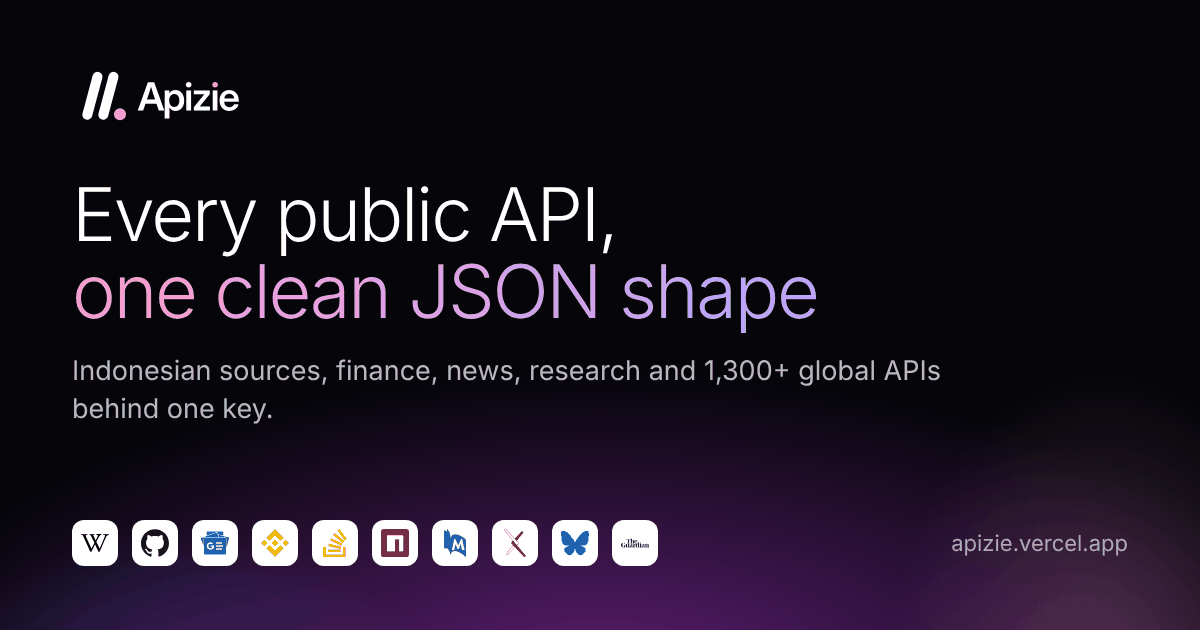
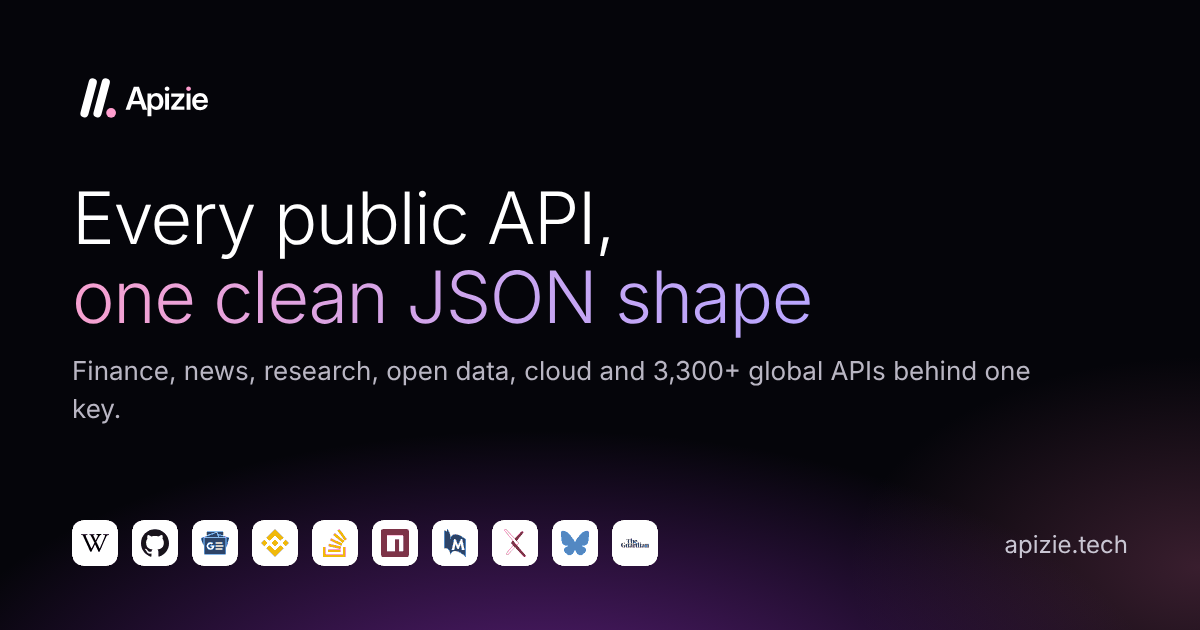
apizie.tech as the only public domain: canonical URLs, vercel.app redirects, new share images, SEO and GEO

diff --git a/src/web/pages/home.js b/src/web/pages/home.js
@@ -15,10 +15,10 @@ const WHY = [
 ];
 
 export const HOME_FAQ = [
-  ["What is Apizie?", "Apizie is an API gateway that puts 1,600+ public APIs and data sources (Wikipedia, GitHub, Binance, news, research databases and 1,300+ global APIs) behind one API key. Every source answers in the same JSON shape: { project, data, timestamp }."],
+  ["What is Apizie?", "Apizie is an API gateway that puts 3,700+ public APIs and data sources (Wikipedia, GitHub, Binance, news, research databases and 3,300+ global APIs) behind one API key. Every source answers in the same JSON shape: { project, data, timestamp }."],
   ["How do I use Apizie with Claude, ChatGPT or Cursor?", "Add the Apizie MCP server URL (/mcp) to your app. Claude.ai, Claude Desktop and ChatGPT connect with one click through OAuth; Cursor, VS Code and Gemini CLI use an API key header. The agent can then search the catalog and call any API as a tool."],
   ["Is Apizie free?", "Yes. The Free plan includes 1,000 requests a month at 100 requests a minute on every live endpoint, with no credit card. Paid plans (Pro, Ultra, Max) raise the limits and add bulk jobs and webhooks."],
-  ["Which data sources does Apizie cover?", "Finance and crypto (Binance, OKX, CoinGecko, SEC EDGAR, ECB rates), news (The Guardian, BBC, Google News, Hacker News), research (PubMed, arXiv), developer tools (GitHub, npm, DNS, WHOIS), media (Apple Music, Deezer) and 1,300+ global APIs imported from public OpenAPI specifications."],
+  ["Which data sources does Apizie cover?", "Finance and crypto (Binance, OKX, CoinGecko, SEC EDGAR, ECB rates), news (The Guardian, BBC, Google News, Hacker News), research (PubMed, arXiv), developer tools (GitHub, npm, DNS, WHOIS), media (Apple Music, Deezer), cloud platforms and 3,300+ global APIs imported from official OpenAPI specifications."],
   ["What does a request look like?", "GET /v1/{category}:{api}/{endpoint}?param=value with the header x-api-key. For example /v1/search-tools:wikipedia/search?query=Eiffel%20Tower returns Wikipedia search results as JSON."],
 ];
 
@@ -119,7 +119,7 @@ export function homePage({ user, totals, categories, top, global = [], liveKeys 
     <article class="card feat f-wide"><h3>We keep every scraper working</h3><p>Sources change their markup and APIs constantly. Health checks run around the clock and every endpoint reports its live status in the catalog, so you never guess.</p><div class="mini-status">${["live", "live", "live", "upstream", "live", "live", "planned", "live"].map((s) => `<i class="dot-${s}"></i>`).join("")}</div></article>
     <article class="card feat"><h3>One response shape</h3><p><code>project</code>, <code>data</code>, <code>timestamp</code>. Errors use the same codes everywhere.</p></article>
     <article class="card feat"><h3>Built for AI agents</h3><p>A remote MCP server exposes the whole catalog as tools for Claude, Cursor and VS Code.</p></article>
-    <article class="card feat"><h3>Bring your own key</h3><p>Stripe, Twilio, Spotify and 1,300+ more run with your provider key, sent per request and never stored.</p></article>
+    <article class="card feat"><h3>Bring your own key</h3><p>Stripe, Twilio, Spotify and 3,300+ more run with your provider key, sent per request and never stored.</p></article>
     <article class="card feat"><h3>Pay for what you use</h3><p>A 5xx never costs you a request. Quotas reset on the 1st (UTC) and every response tells you what is left.</p></article>
   </div>
 </section>`;
@@ -154,7 +154,7 @@ export function homePage({ user, totals, categories, top, global = [], liveKeys 
   <div class="section-head"><span class="eyebrow">FAQ</span><h2 class="display-2">Questions, answered.</h2></div>
   <div class="faq">${HOME_FAQ.map(([q, a]) => `<details><summary>${esc(q)}</summary><p>${esc(a)}</p></details>`).join("")}</div>
 </section>`;
-  const description = `One API key for ${apiCount} public data APIs: Wikipedia, GitHub, Binance, arXiv, news and 1,300+ global APIs as clean JSON, plus an MCP server for Claude, ChatGPT and Cursor. Free 1,000 requests/month, paid plans from $9.`;
+  const description = `One API key for ${apiCount} public data APIs: Wikipedia, GitHub, Binance, arXiv, news and 3,300+ global APIs as clean JSON, plus an MCP server for Claude, ChatGPT and Cursor. Free 1,000 requests/month, paid plans from $9.`;
   return layout({ active: "home", user, bodyClass: "home", description, markdown: true, canonical: "/", jsonLd: [webPageLd({ name: "Apizie: One API key for every public data source", description }), faqLd(HOME_FAQ)], body: `<main>${hero}${stats}${steps}${find}${globalSec}${code}${features}${pricing}${agent}${faqSec}${cta}</main>`, head: `<link rel="preload" as="image" href="${HERO_BG}" type="image/webp">` });
 }
 
@@ -175,7 +175,7 @@ export const _json = json;
 const HEADLINES = (apiCount) => [
   {
     lines: [[["One API key", "l"], ["for"]], [[apiCount, "r"], ["data sources"]]],
-    sub: "Finance, news, research, developer tools and 1,300+ global APIs as clean JSON. Call them from your code or hand them to your AI agent.",
+    sub: "Finance, news, research, developer tools and 3,300+ global APIs as clean JSON. Call them from your code or hand them to your AI agent.",
   },
   {
     lines: [[["The API key", "l"], ["for"]], [["your AI agent", "r"]]],

diff --git a/src/app.js b/src/app.js
@@ -52,8 +52,13 @@ export function createApp(opts = {}) {
   const vercelHost = env.VERCEL_PROJECT_PRODUCTION_URL ?? env.VERCEL_URL;
   // Only the origin is used: a value like "https://apizie.tech/auth/supabase/callback" would otherwise double every path.
   const originOf = (v) => { try { return new URL(v).origin; } catch { return String(v).replace(/\/+$/, ""); } };
-  const apiUrl = originOf(opts.apiUrl ?? env.ZIE_API_URL ?? env.ZIE_PUBLIC_URL ?? (vercelHost ? `https://${vercelHost}` : `http://localhost:${env.PORT ?? 8787}`));
-  const publicUrl = originOf(opts.publicUrl ?? env.ZIE_PUBLIC_URL ?? apiUrl);
+  // Production always answers as the brand domain: a *.vercel.app value (env var or Vercel's own default) is replaced by
+  // CANONICAL_URL, so links, OAuth callbacks, sitemap, canonical tags and code samples never show the Vercel host.
+  const isVercelProd = env.VERCEL_ENV === "production" || (env.VERCEL === "1" && !env.VERCEL_ENV);
+  const canonicalize = (u) => (isVercelProd && /\.vercel\.app$/i.test(hostOf(u)) ? CANONICAL_URL : u);
+  const apiUrl = canonicalize(originOf(opts.apiUrl ?? env.ZIE_API_URL ?? env.ZIE_PUBLIC_URL ?? (isVercelProd ? CANONICAL_URL : vercelHost ? `https://${vercelHost}` : `http://localhost:${env.PORT ?? 8787}`)));
+  const publicUrl = canonicalize(originOf(opts.publicUrl ?? env.ZIE_PUBLIC_URL ?? apiUrl));
+  const canonicalHost = hostOf(publicUrl);
   const serverless = opts.serverless ?? env.VERCEL === "1";
   const production = env.NODE_ENV === "production" || serverless;
   const logger = opts.logger === undefined ? console : opts.logger;
@@ -714,6 +719,7 @@ export function createApp(opts = {}) {
   }
 
   // ---------- node:http glue ------------------------------------------------------
+  const offCanonicalPage = (req, url) => isOffCanonicalPage(req, url, canonicalHost);
   async function handler(req, res) {
     const t0 = process.hrtime.bigint();
     const requestId = /^[A-Za-z0-9._-]{6,64}$/.test(req.headers["x-request-id"] ?? "") ? req.headers["x-request-id"] : ulid();
@@ -722,6 +728,10 @@ export function createApp(opts = {}) {
     const isApi = /^\/(v1|api\/(me|admin|public|scrapers|info|report|showcase)|mcp|auth\/(login|register|logout)|\.well-known|oauth\/(register|token|revoke))(\/|$)/.test(url.pathname) && !(req.method === "GET" && url.pathname === "/mcp" && !/event-stream/.test(req.headers.accept ?? ""));
     try {
       if (req.method === "OPTIONS") out = { status: 204, body: "", headers: {} };
+      else if (offCanonicalPage(req, url)) {
+        // An old *.vercel.app link: send people (and search engines) to the same page on the brand domain.
+        out = { status: 308, body: "", headers: { Location: publicUrl + url.pathname + url.search, "Cache-Control": "public, max-age=3600" } };
+      }
       else {
         req.zieRequestId = requestId;
         const sessionToken = parseCookies(req.headers.cookie)[SESSION_COOKIE];
@@ -777,6 +787,24 @@ function upstreamAuthFrom(h) {
   return key || authorization ? { ...(key ? { key } : {}), ...(authorization ? { authorization } : {}) } : null;
 }
 const text = (s) => ({ status: 200, body: s, headers: { "content-type": "text/plain; charset=utf-8", "Cache-Control": "public, max-age=600" } });
+export const CANONICAL_URL = "https://apizie.tech";
+function hostOf(u) {
+  try {
+    return new URL(u).hostname.toLowerCase();
+  } catch {
+    return "";
+  }
+}
+/**
+ * GET/HEAD for a web page on a *.vercel.app host while the public URL is another domain. API calls, MCP, OAuth,
+ * webhooks and sign-in callbacks keep working on the old host so existing clients and in-flight logins do not break.
+ */
+function isOffCanonicalPage(req, url, canonicalHost) {
+  if (req.method !== "GET" && req.method !== "HEAD") return false;
+  const host = String(req.headers["x-forwarded-host"] ?? req.headers.host ?? "").split(",")[0].trim().toLowerCase().replace(/:\d+$/, "");
+  if (!host || host === canonicalHost || !/\.vercel\.app$/.test(host) || /\.vercel\.app$/.test(canonicalHost)) return false;
+  return !/^\/(v1|mcp|api|oauth|webhooks|\.well-known|auth\/[a-z]+\/callback)(\/|$)/.test(url.pathname);
+}
 const redirect = (to, headers = {}) => ({ status: 302, body: "", headers: { Location: to, ...headers } });
 const isHttps = (req) => req.headers["x-forwarded-proto"] === "https" || !!req.socket?.encrypted;
 const safeHost = (u) => {

diff --git a/test/domain.test.js b/test/domain.test.js
@@ -1,0 +1,50 @@
+// The brand domain: production never shows *.vercel.app in links, callbacks, SEO files or code samples,
+// and old vercel.app page links move to the same page on apizie.tech.
+import { test, after } from "node:test";
+import assert from "node:assert/strict";
+import { createApp } from "../src/app.js";
+import { MemoryKV } from "../src/db/kv.js";
+
+const apps = [];
+after(() => Promise.all(apps.map((a) => new Promise((r) => a.server.close(r)))));
+async function start(env) {
+  const app = createApp({ quiet: true, logger: null, kv: new MemoryKV(), env, supabaseAuth: null });
+  await new Promise((r) => app.server.listen(0, "127.0.0.1", r));
+  apps.push(app);
+  return `http://127.0.0.1:${app.server.address().port}`;
+}
+const get = (base, path, host, extra = {}) => fetch(base + path, { headers: { "x-forwarded-host": host, ...extra }, redirect: "manual" });
+
+test("production on Vercel answers as apizie.tech even when env vars still name the vercel.app host", async () => {
+  const base = await start({ VERCEL_ENV: "production", VERCEL_PROJECT_PRODUCTION_URL: "zieapi.vercel.app", APIZIE_API_URL: "https://zieapi.vercel.app", APIZIE_PUBLIC_URL: "https://zieapi.vercel.app/" });
+  for (const path of ["/", "/llms.txt", "/llms-full.txt", "/sitemap.xml", "/robots.txt", "/openapi.json", "/pricing", "/mcp", "/docs", "/scrapers"]) {
+    const body = await (await get(base, path, "apizie.tech")).text();
+    assert.ok(!/vercel\.app/.test(body), `${path} mentions vercel.app`);
+  }
+  const home = await (await get(base, "/", "apizie.tech")).text();
+  assert.match(home, /<link rel="canonical" href="https:\/\/apizie\.tech\/"/);
+  assert.match(home, /<meta property="og:image" content="https:\/\/apizie\.tech\/assets\/og\/home\.png\?v=4"/);
+  assert.match(await (await get(base, "/robots.txt", "apizie.tech")).text(), /Sitemap: https:\/\/apizie\.tech\/sitemap\.xml/);
+  const catalogPage = await (await get(base, "/api/finance/indodax", "apizie.tech")).text();
+  assert.ok(catalogPage.includes("https://apizie.tech/v1/finance:indodax/"), "code samples use the brand domain");
+});
+
+test("old vercel.app page links redirect to the same page on apizie.tech; API, MCP and callbacks keep working there", async () => {
+  const base = await start({ VERCEL_ENV: "production", VERCEL_PROJECT_PRODUCTION_URL: "zieapi.vercel.app" });
+  const r = await get(base, "/dashboard?tab=keys", "zieapi.vercel.app");
+  assert.equal(r.status, 308);
+  assert.equal(r.headers.get("location"), "https://apizie.tech/dashboard?tab=keys");
+  assert.equal((await get(base, "/scrapers", "zieapi.vercel.app", { "x-forwarded-host": "zieapi.vercel.app" })).status, 308);
+  for (const path of ["/v1/finance:indodax/ticker", "/api/scrapers/list", "/mcp", "/auth/supabase/callback", "/.well-known/oauth-protected-resource", "/webhooks/dodo"]) {
+    assert.notEqual((await get(base, path, "zieapi.vercel.app")).status, 308, path);
+  }
+  assert.equal((await get(base, "/pricing", "apizie.tech")).status, 200);
+});
+
+test("preview deployments and local runs keep their own host", async () => {
+  const preview = await start({ VERCEL_ENV: "preview", VERCEL_URL: "zieapi-git-dev.vercel.app" });
+  assert.equal((await get(preview, "/pricing", "zieapi-git-dev.vercel.app")).status, 200);
+  assert.match(await (await get(preview, "/robots.txt", "zieapi-git-dev.vercel.app")).text(), /https:\/\/zieapi-git-dev\.vercel\.app\/sitemap\.xml/);
+  const local = await start({});
+  assert.equal((await get(local, "/pricing", "localhost")).status, 200);
+});

diff --git a/src/web/pages/catalog.js b/src/web/pages/catalog.js
@@ -27,7 +27,7 @@ ${pageHead("Catalog", `Browse all ${fmt(totals.scrapers)} APIs`, `${fmt(totals.e
 </div>
 <script type="application/json" id="catalog-data">${json({ items: items.map(({ id, description, sourceUrl, maxCacheTtl, minPlan, hasGatedEndpoint, ...it }) => ({ ...it, description: description ? description.slice(0, 120) : null })), initialCat: cat })}</script>
 </main>`;
-  const description = `Browse ${totals.scrapers.toLocaleString("en-US")} public data APIs and ${totals.endpoints.toLocaleString("en-US")} endpoints: finance, news, Indonesia, social media, research, developer tools and 1,300+ global APIs. One key, clean JSON, MCP-ready.`;
+  const description = `Browse ${totals.scrapers.toLocaleString("en-US")} public data APIs and ${totals.endpoints.toLocaleString("en-US")} endpoints: finance, news, social media, research, developer tools, cloud and 3,300+ global APIs. One key, clean JSON, MCP-ready.`;
   return layout({ fullTitle: `API Catalog: ${Math.floor(totals.scrapers / 100) * 100}+ Public Data APIs as JSON | Apizie`, active: "scrapers", user, body, description, ogImage: "/assets/og/api.png", canonical: "/scrapers", jsonLd: [webPageLd({ name: "Apizie API catalog", description, type: "CollectionPage" }), breadcrumb([["Home", "/"], ["Catalog", "/scrapers"]])] });
 }
 
@@ -89,7 +89,7 @@ export function scraperPage({ user, s, category, apiUrl, epSlug }) {
 <script type="application/json" id="detail-data">${json({ scraper: { key: s.key, displayName: s.displayName, category: s.category, slug: s.slug, auth: s.auth ?? null, provider: s.provider ?? null, origin: s.origin }, endpoints: s.endpoints, current: ep.slug, apiUrl, errors, langs: CODE_LANGS, loggedIn: !!user })}</script>
 </main>`;
   const firstSentence = (s.description ?? "").replace(/\s+/g, " ").split(/(?<=[.!?])\s/)[0].slice(0, 80).replace(/[.\s,;:]*$/, "");
-  const description = `${s.displayName} API: ${s.endpointCount} endpoint${s.endpointCount === 1 ? "" : "s"} as clean JSON with one key${firstSentence ? `. ${firstSentence}` : ""}. MCP-ready, free 600 requests/month.`;
+  const description = `${s.displayName} API: ${s.endpointCount} endpoint${s.endpointCount === 1 ? "" : "s"} as clean JSON with one key${firstSentence ? `. ${firstSentence}` : ""}. MCP-ready, free 1,000 requests/month.`;
   return layout({
     fullTitle: `${s.displayName} API: ${s.endpointCount} Endpoint${s.endpointCount === 1 ? "" : "s"} as JSON | Apizie`,
     active: "scrapers", user, body, description, ogImage: "/assets/og/api.png", markdown: true, canonical: `/api/${s.category}/${s.slug}`,

diff --git a/src/web/seo.js b/src/web/seo.js
@@ -13,7 +13,7 @@ export const BRAND = {
   legalName: "Ziera Technology",
   tagline: "One API key for every public data source",
   description:
-    "Apizie turns 1,600+ public APIs and data sources (Wikipedia, GitHub, Binance, arXiv, news and more) into clean JSON behind one API key, with an MCP server for Claude, ChatGPT and Cursor. Free 1,000 requests a month.",
+    "Apizie turns 3,700+ public APIs and data sources (Wikipedia, GitHub, Binance, arXiv, news and more) into clean JSON behind one API key, with an MCP server for Claude, ChatGPT and Cursor. Free 1,000 requests a month.",
   repo: "https://github.com/nafadza14/zieapi",
   email: "support@zieads.com",
   locale: "en_US",
@@ -45,7 +45,7 @@ export function siteGraph() {
     "@type": "Organization",
     "@id": `${base}#org`,
     name: BRAND.name,
-    alternateName: ["Apizie API", "apizie"],
+    alternateName: ["Apizie API", "apizie", "apizie.tech"],
     url: base,
     logo: { "@type": "ImageObject", url: absUrl("/assets/icon-512.png"), width: 512, height: 512 },
     legalName: BRAND.legalName,
@@ -73,7 +73,7 @@ export function siteGraph() {
     url: base,
     description: BRAND.description,
     publisher: { "@id": `${base}#org` },
-    featureList: ["REST API with one JSON envelope", "MCP server (Streamable HTTP, OAuth 2.1)", "Bulk jobs", "Signed webhooks", "OpenAPI 3.1 and llms.txt", "1,300+ global APIs from public OpenAPI specs"],
+    featureList: ["REST API with one JSON envelope", "MCP server (Streamable HTTP, OAuth 2.1)", "Bulk jobs", "Signed webhooks", "OpenAPI 3.1 and llms.txt", "3,300+ global APIs from official OpenAPI specs"],
     offers: Object.values(PLANS).map((p) => ({
       "@type": "Offer",
       name: `${PLAN_COPY[p.id]?.name ?? p.id} plan`,
@@ -143,7 +143,7 @@ const PRIVATE = ["/dashboard", "/admin", "/api/me", "/api/admin", "/oauth/", "/a
 export function robotsTxt(publicUrl) {
   const block = (ua) => [`User-agent: ${ua}`, "Allow: /", ...PRIVATE.map((p) => `Disallow: ${p}`)].join("\n");
   return [
-    "# Apizie: one API key for 1,600+ public data sources.",
+    "# Apizie: one API key for 3,700+ public data sources.",
     `# AI agents: start at ${publicUrl}/llms.txt (summary) or ${publicUrl}/llms-full.txt (full catalog).`,
     "# Every catalog and docs page also has a Markdown twin: append .md or send Accept: text/markdown.",
     "",

diff --git a/src/web/pages/misc.js b/src/web/pages/misc.js
@@ -52,8 +52,8 @@ ${pageHead("MCP server", `Give your AI agent ${fmt(totals?.scrapers ?? 0)} APIs.
   <div class="table-wrap"><table class="doc-table">${tools.map(([n, d]) => `<tr><td><code>${n}</code></td><td>${d}</td></tr>`).join("")}</table></div>
   <div class="grid-3 mt"><div class="card"><h3>Rate limits</h3><p>Tool calls share your plan's per-minute and monthly limits with REST.</p></div><div class="card"><h3>Plan gating</h3><p>Bulk tools need Ultra or Max. Gated endpoints return <code>plan_upgrade_required</code>.</p></div><div class="card"><h3>Revoke access</h3><p>Connected apps are listed in <a href="/dashboard/keys">Dashboard → API keys</a>. Disconnect one and its tokens stop working at once.</p></div></div>
 </section></main>`;
-  const description = "Connect Claude, ChatGPT, Cursor, VS Code and Gemini CLI to 1,600+ APIs with the Apizie MCP server. One-click OAuth or an API key, 8 tools, same quota as REST.";
-  return layout({ fullTitle: "MCP Server: 1,600+ APIs for Claude, ChatGPT & Cursor | Apizie", active: "mcp", user, body, description, ogImage: "/assets/og/mcp.png", jsonLd: [webPageLd({ name: "Apizie MCP server", description, type: "TechArticle", extra: { headline: "Connect AI agents to 1,600+ APIs with MCP" } }), breadcrumb([["Home", "/"], ["MCP server", "/mcp"]])] });
+  const description = "Connect Claude, ChatGPT, Cursor, VS Code and Gemini CLI to 3,700+ APIs with the Apizie MCP server. One-click OAuth or an API key, 8 tools, same quota as REST.";
+  return layout({ fullTitle: "MCP Server: 3,700+ APIs for Claude, ChatGPT & Cursor | Apizie", active: "mcp", user, body, description, ogImage: "/assets/og/mcp.png", jsonLd: [webPageLd({ name: "Apizie MCP server", description, type: "TechArticle", extra: { headline: "Connect AI agents to 3,700+ APIs with MCP" } }), breadcrumb([["Home", "/"], ["MCP server", "/mcp"]])] });
 }
 
 // ---------- OAuth consent ------------------------------------------------------

diff --git a/src/core/mcp.js b/src/core/mcp.js
@@ -16,7 +16,7 @@ export const MCP_TOOLS = [
     name: "search_scrapers",
     title: "Search the catalog",
     annotations: { title: "Search the catalog", readOnlyHint: true, destructiveHint: false, idempotentHint: true, openWorldHint: false },
-    description: "Find APIs by name, source, tag or the data they return (Indonesian sources plus 1,300+ global APIs). Returns catalog items with key 'category:slug', status (live = works now, byok = needs the provider's own key) and endpointCount. Results are paged: pass nextCursor back as cursor to get the next page; when nextCursor is null you have seen all `total` matches.",
+    description: "Find APIs by name, source, tag or the data they return (news, finance, research, open data, cloud and 3,300+ global APIs). Returns catalog items with key 'category:slug', status (live = works now, byok = needs the provider's own key) and endpointCount. Results are paged: pass nextCursor back as cursor to get the next page; when nextCursor is null you have seen all `total` matches.",
     inputSchema: {
       type: "object",
       properties: {

diff --git a/src/web/html.js b/src/web/html.js
@@ -48,10 +48,10 @@ export function footer() {
 
 export function layout({ title, description = BRAND.description, body, active = "", user = null, bodyClass = "", head = "", scripts = ["/assets/site.js"], noindex = false, bare = false, fullTitle: forcedTitle = null, ogImage = "/assets/og/home.png", ogType = "website", jsonLd = [], canonical = null, markdown = false }) {
   const { path } = seoCtx();
-  const fullTitle = forcedTitle ?? (title ? `${title} | Apizie` : "Apizie: One API Key for 1,600+ Public Data APIs (REST + MCP)");
+  const fullTitle = forcedTitle ?? (title ? `${title} | Apizie` : "Apizie: One API Key for 3,700+ Public Data APIs (REST + MCP)");
   const desc = metaDescription(description);
   const canon = absUrl(canonical ?? path ?? "/");
-  const img = absUrl(ogImage);
+  const img = absUrl(ogImage) + (/\?/.test(ogImage) ? "" : "?v=4"); // bump to refresh link previews cached by social networks
   const v = "?v=3";
   const graph = noindex ? [] : [...siteGraph(), ...jsonLd];
   return `<!doctype html>

diff --git a/src/core/openapi.js b/src/core/openapi.js
@@ -104,7 +104,7 @@ export function buildLlmsTxt(catalog, { apiUrl, publicUrl, category = null, full
   const lines = [
     category ? `# Apizie: ${catName(catalog, category)} APIs` : "# Apizie",
     "",
-    `> Apizie is one API key for ${t.scrapers} public data APIs (${t.endpoints} endpoints, ${t.categories} categories): finance and crypto, news, research, developer tools and 1,300+ global APIs, all returned as clean JSON. Includes an MCP server for Claude, ChatGPT and Cursor. Free plan: 1,000 requests/month, no credit card.`,
+    `> Apizie is one API key for ${t.scrapers} public data APIs (${t.endpoints} endpoints, ${t.categories} categories): finance and crypto, news, research, developer tools, cloud and 3,300+ global APIs, all returned as clean JSON. Includes an MCP server for Claude, ChatGPT and Cursor. Free plan: 1,000 requests/month, no credit card.`,
     "",
     "## Use it",
     `- Base URL: ${apiUrl}`,

diff --git a/test/app.test.js b/test/app.test.js
@@ -284,7 +284,7 @@ test("global APIs: BYOK through /v1, per-API OpenAPI spec and filters", async ()
 test("SEO + GEO: metadata, JSON-LD, robots, sitemap, markdown twins, icons", async () => {
   const home = await (await fetch(base + "/")).text();
   assert.match(home, /<link rel="canonical" href="http:\/\/zie\.test\/">/);
-  assert.match(home, /<meta property="og:image" content="http:\/\/zie\.test\/assets\/og\/home\.png">/);
+  assert.match(home, /<meta property="og:image" content="http:\/\/zie\.test\/assets\/og\/home\.png\?v=4">/);
   assert.match(home, /<meta name="twitter:card" content="summary_large_image">/);
   // First headline is server-rendered word by word; the other three rotate in from data-hero-rotate.
   assert.match(home, /<h1 class="hero-title"[^>]*>.*>One<\/span> <span[^>]*>API<\/span> <span[^>]*>key<\/span> <span class="w">for<\/span>/);
